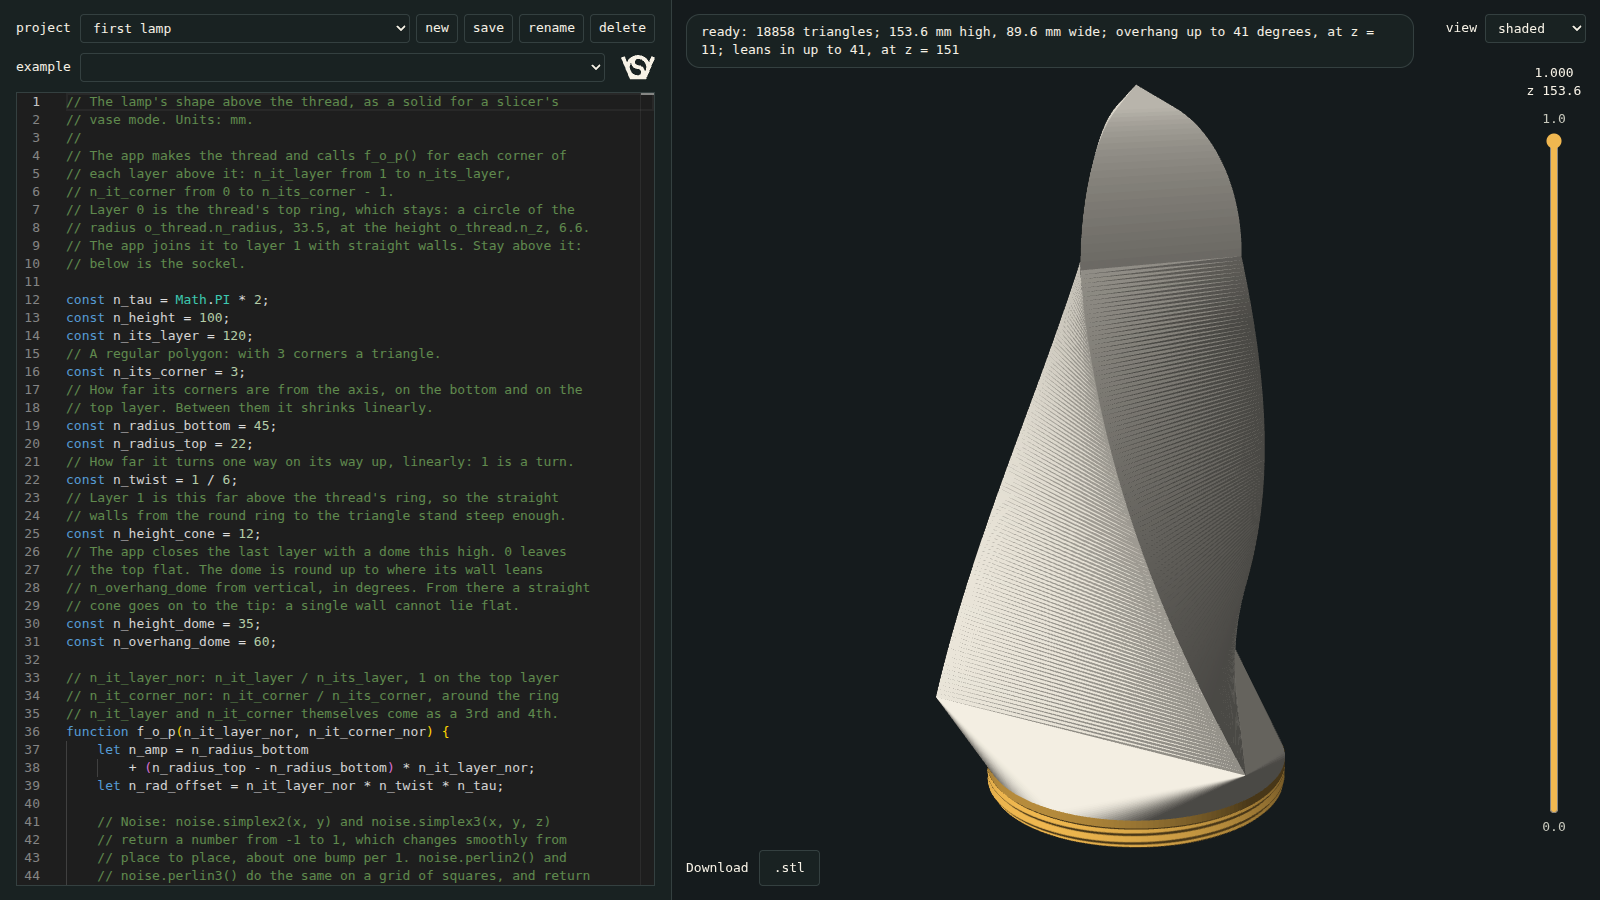
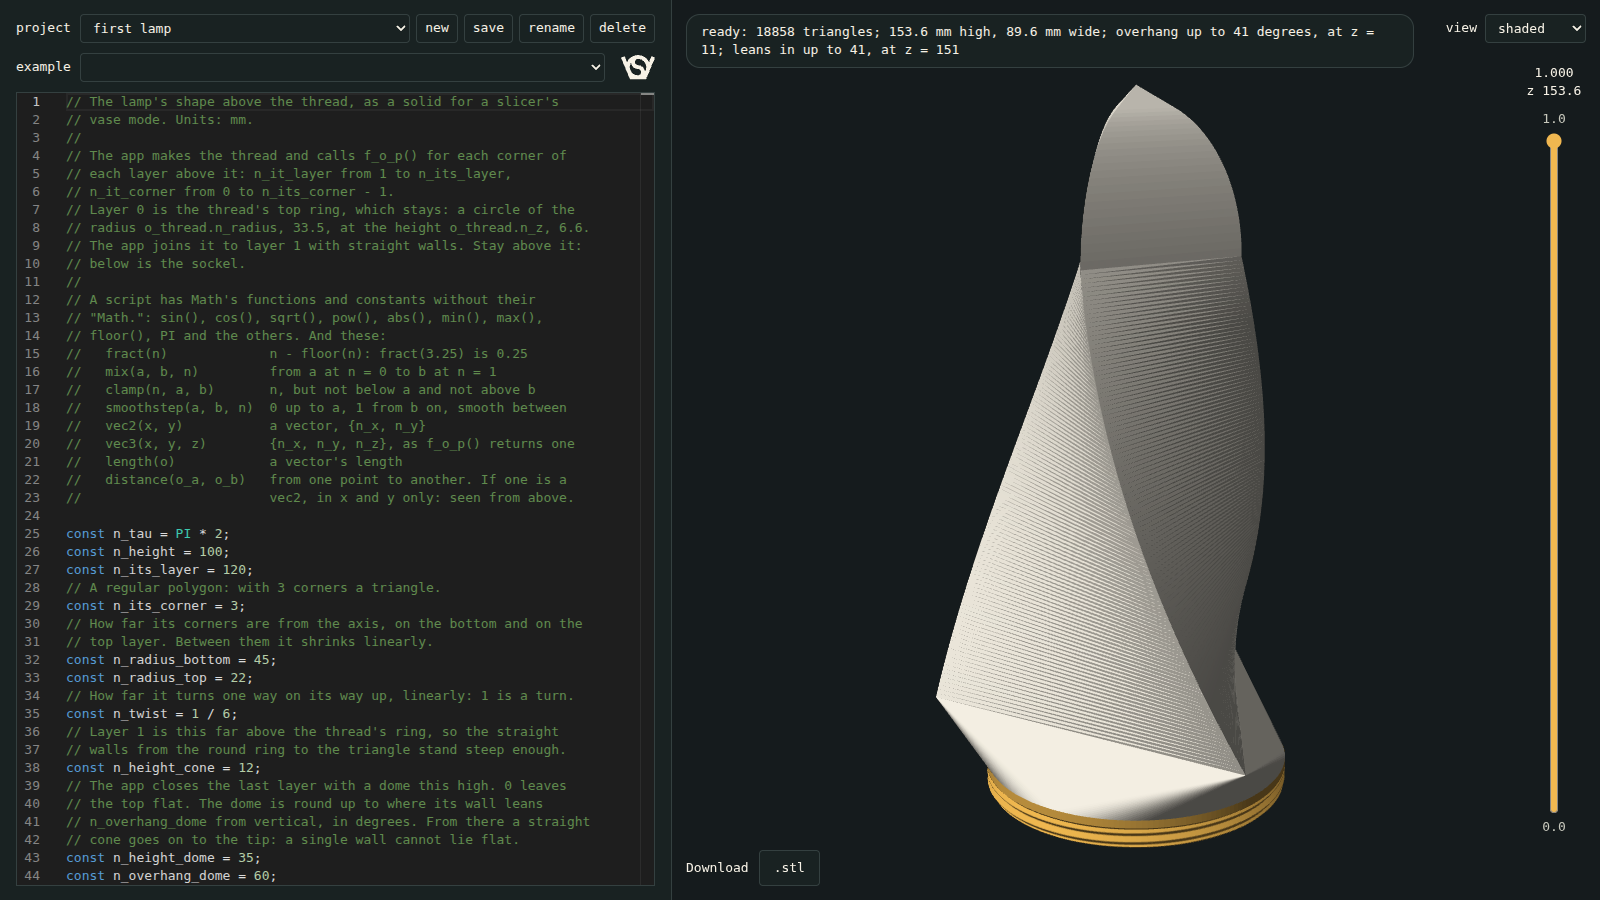
Pucklight vase: a script has Math's functions without Math, and fract, mix, distance
- sin(), cos(), PI and the rest of Math without their "Math.".
- fract, mix, clamp, smoothstep, vec2, vec3, length, distance.
- A script's own sin or fract takes their place, so scripts from before run.
- The editor offers and explains them; template uses them.

Changed region(s): [[0.0312, 0.3111, 0.375, 0.9956]]

diff --git a/projects/pucklight_vase/app.js b/projects/pucklight_vase/app.js
@@ -357,6 +357,33 @@ function code_changed(text) {
 let get_code = () => code;
 let set_code = (text) => {};
 
+// What a script gets and sees, for the editor to offer and to explain: o_thread, noise,
+// and vase_mesh.js's script_functions. And console, to look at a number.
+const script_declarations = `
+declare const console: {log(...data: any[]): void};
+declare const o_thread: {n_radius: number, n_z: number};
+declare const noise: {seed(n_seed: number): void, simplex2(x: number, y: number): number,
+    simplex3(x: number, y: number, z: number): number, perlin2(x: number, y: number): number,
+    perlin3(x: number, y: number, z: number): number};
+${Object.getOwnPropertyNames(Math).map((name) => `declare const ${name}: typeof Math.${name};`).join("\n")}
+/** n - floor(n): fract(3.25) is 0.25 */
+declare function fract(n: number): number;
+/** From a at n = 0 to b at n = 1. */
+declare function mix(a: number, b: number, n: number): number;
+/** n, but not below low and not above high. */
+declare function clamp(n: number, low: number, high: number): number;
+/** 0 up to low, 1 from high on, smooth between. */
+declare function smoothstep(low: number, high: number, n: number): number;
+/** A vector: {n_x, n_y}. */
+declare function vec2(n_x: number, n_y: number): {n_x: number, n_y: number};
+/** A vector: {n_x, n_y, n_z}, as f_o_p() returns one. */
+declare function vec3(n_x: number, n_y: number, n_z: number): {n_x: number, n_y: number, n_z: number};
+/** A vector's length. */
+declare function length(o: {n_x: number, n_y: number, n_z?: number}): number;
+/** From one point to another. If one is a vec2, in x and y only: as seen from above. */
+declare function distance(o_a: {n_x: number, n_y: number, n_z?: number}, o_b: {n_x: number, n_y: number, n_z?: number}): number;
+`;
+
 function start_monaco() {
     // The worker comes from another origin, so it has to start through a data URL.
     const worker = `self.MonacoEnvironment = {baseUrl: "${monaco_url}/"}; importScripts("${monaco_url}/vs/base/worker/workerMain.js");`;
@@ -364,12 +391,12 @@ function start_monaco() {
     require.config({paths: {vs: `${monaco_url}/vs`}});
     require(["vs/editor/editor.main"], () => {
         // A script is a function's body: its return is no mistake, and it gets o_thread
-        // and sees noise.
-        monaco.languages.typescript.javascriptDefaults.setDiagnosticsOptions({diagnosticCodesToIgnore: [1108]});
-        monaco.languages.typescript.javascriptDefaults.addExtraLib("declare const o_thread: {n_radius: number, n_z: number};"
-            + " declare const noise: {seed(n_seed: number): void, simplex2(x: number, y: number): number,"
-            + " simplex3(x: number, y: number, z: number): number, perlin2(x: number, y: number): number,"
-            + " perlin3(x: number, y: number, z: number): number};");
+        // and sees noise and script_functions. Without the browser's own names, of which
+        // length is one: a script's length() is the vector's.
+        const javascript = monaco.languages.typescript.javascriptDefaults;
+        javascript.setDiagnosticsOptions({diagnosticCodesToIgnore: [1108]});
+        javascript.setCompilerOptions({...javascript.getCompilerOptions(), lib: ["esnext"]});
+        javascript.addExtraLib(script_declarations);
         const editor = monaco.editor.create($("editor"), {
             value: code, language: "javascript", theme: "vs-dark", automaticLayout: true,
             minimap: {enabled: false}, scrollBeyondLastLine: false, fontSize: 13, tabSize: 4, lineNumbersMinChars: 3,

diff --git a/projects/pucklight_vase/examples.js b/projects/pucklight_vase/examples.js
@@ -15,8 +15,21 @@ const examples = {
 // radius o_thread.n_radius, 33.5, at the height o_thread.n_z, 6.6.
 // The app joins it to layer 1 with straight walls. Stay above it:
 // below is the sockel.
+//
+// A script has Math's functions and constants without their
+// "Math.": sin(), cos(), sqrt(), pow(), abs(), min(), max(),
+// floor(), PI and the others. And these:
+//   fract(n)             n - floor(n): fract(3.25) is 0.25
+//   mix(a, b, n)         from a at n = 0 to b at n = 1
+//   clamp(n, a, b)       n, but not below a and not above b
+//   smoothstep(a, b, n)  0 up to a, 1 from b on, smooth between
+//   vec2(x, y)           a vector, {n_x, n_y}
+//   vec3(x, y, z)        {n_x, n_y, n_z}, as f_o_p() returns one
+//   length(o)            a vector's length
+//   distance(o_a, o_b)   from one point to another. If one is a
+//                        vec2, in x and y only: seen from above.
 
-const n_tau = Math.PI * 2;
+const n_tau = PI * 2;
 const n_height = 100;
 const n_its_layer = 120;
 // A regular polygon: with 3 corners a triangle.
@@ -41,8 +54,7 @@ const n_overhang_dome = 60;
 // n_it_corner_nor: n_it_corner / n_its_corner, around the ring
 // n_it_layer and n_it_corner themselves come as a 3rd and 4th.
 function f_o_p(n_it_layer_nor, n_it_corner_nor) {
-    let n_amp = n_radius_bottom
-        + (n_radius_top - n_radius_bottom) * n_it_layer_nor;
+    let n_amp = mix(n_radius_bottom, n_radius_top, n_it_layer_nor);
     let n_rad_offset = n_it_layer_nor * n_twist * n_tau;
 
     // Noise: noise.simplex2(x, y) and noise.simplex3(x, y, z)
@@ -64,16 +76,16 @@ function f_o_p(n_it_layer_nor, n_it_corner_nor) {
     // x and y go around a circle, so the noise has no seam where
     // the ring closes.
     // n_amp += noise.simplex3(
-    //     Math.sin(n_it_corner_nor * n_tau) * 2,
-    //     Math.cos(n_it_corner_nor * n_tau) * 2,
+    //     sin(n_it_corner_nor * n_tau) * 2,
+    //     cos(n_it_corner_nor * n_tau) * 2,
     //     n_it_layer_nor * 4) * 3;
     //
     // Another pattern, from 1 to 65535. Above f_o_p():
     // noise.seed(7);
 
     return {
-        n_x: Math.sin(n_it_corner_nor * n_tau + n_rad_offset) * n_amp,
-        n_y: Math.cos(n_it_corner_nor * n_tau + n_rad_offset) * n_amp,
+        n_x: sin(n_it_corner_nor * n_tau + n_rad_offset) * n_amp,
+        n_y: cos(n_it_corner_nor * n_tau + n_rad_offset) * n_amp,
         n_z: o_thread.n_z + n_height_cone + n_it_layer_nor * n_height,
     };
 }

diff --git a/projects/pucklight_vase/test_vase_mesh.js b/projects/pucklight_vase/test_vase_mesh.js
@@ -184,6 +184,27 @@ for (const example of commented.slice(0, 3)) {
 }
 console.log("ok  noise: from -1 to 1, the same for each run of a script, another with a seed; the template's examples work");
 
+/* ---- The functions a script sees ---- */
+
+assert.deepEqual(run_script("return [sin(1), atan2(1, 2), max(1, 2), PI];"), [Math.sin(1), Math.atan2(1, 2), 2, Math.PI]);
+for (const [code, value] of [
+    ["fract(3.25)", 0.25], ["fract(-0.25)", 0.75], ["mix(10, 20, 0.25)", 12.5],
+    ["clamp(5, 0, 1)", 1], ["clamp(-5, 0, 1)", 0], ["clamp(0.5, 0, 1)", 0.5],
+    ["smoothstep(0, 10, -1)", 0], ["smoothstep(0, 10, 2.5)", 0.15625], ["smoothstep(0, 10, 5)", 0.5], ["smoothstep(0, 10, 11)", 1],
+    ["length(vec2(3, 4))", 5], ["length(vec3(2, 3, 6))", 7], ["distance(vec3(1, 2, 3), vec3(3, 5, 9))", 7],
+    // With a vec2 the height does not count, whichever of the two it is.
+    ["distance(vec3(1, 2, 3), vec2(4, 6))", 5], ["distance(vec2(4, 6), vec3(1, 2, 3))", 5], ["distance(vec2(1, 2), vec2(4, 6))", 5],
+]) assert.equal(run_script(`return ${code};`), value, code);
+assert.deepEqual(run_script("return [vec2(1, 2), vec3(1, 2, 3)];"), [{n_x: 1, n_y: 2}, {n_x: 1, n_y: 2, n_z: 3}]);
+// A script's own names take their place: scripts from before there were any have them.
+assert.equal(run_script("const sin = () => 7; const fract = 1; let length = 2;\nfunction distance() { return 3; }\nreturn sin() + fract + length + distance();"), 13);
+// The template uses them: without, with Math's own, it is the same vase.
+const with_math = examples.template.replace("PI * 2", "Math.PI * 2").replace(/ (sin|cos)\(/g, " Math.$1(")
+    .replace("mix(n_radius_bottom, n_radius_top, n_it_layer_nor)", "n_radius_bottom + (n_radius_top - n_radius_bottom) * n_it_layer_nor");
+assert(!/(?<![.\w])(sin|cos|mix|PI)\b/.test(with_math.replace(/^\s*\/\/.*$/gm, "")), "the template still uses one");
+assert.deepEqual(vase_mesh(run_script(with_math)), template);
+console.log(`ok  functions: ${Object.keys(script_functions).length} names, Math's without Math, fract, mix, clamp, smoothstep, vec2, vec3, length, distance; a script's own win`);
+
 /* ---- Any script ---- */
 
 // Few corners or many, running either way, starting anywhere: closed, outside out.

diff --git a/projects/pucklight_vase/vase_mesh.js b/projects/pucklight_vase/vase_mesh.js
@@ -45,13 +45,36 @@ function neck_radius(z, a) {
     return neck_root_r + Math.max(Math.min(ridge, z), z - neck_height);
 }
 
+// What a script sees besides o_thread and noise: Math's functions and constants without
+// their "Math.", and a few of a shader's. A vector is {n_x, n_y} or {n_x, n_y, n_z}, as
+// f_o_p() returns one.
+const script_functions = {
+    ...Object.fromEntries(Object.getOwnPropertyNames(Math).map((name) => [name, Math[name]])),
+    fract: (n) => n - Math.floor(n),
+    mix: (a, b, n) => a + (b - a) * n,
+    clamp: (n, low, high) => Math.min(Math.max(n, low), high),
+    smoothstep: (low, high, n) => {
+        const t = Math.min(Math.max((n - low) / (high - low), 0), 1);
+        return t * t * (3 - 2 * t);
+    },
+    vec2: (n_x, n_y) => ({n_x, n_y}),
+    vec3: (n_x, n_y, n_z) => ({n_x, n_y, n_z}),
+    length: (o) => Math.hypot(o.n_x, o.n_y, o.n_z ?? 0),
+    // n_z counts if both have one: to a vec2 the distance is the one seen from above.
+    distance: (o_a, o_b) => Math.hypot(o_a.n_x - o_b.n_x, o_a.n_y - o_b.n_y,
+        o_a.n_z === undefined || o_b.n_z === undefined ? 0 : o_a.n_z - o_b.n_z),
+};
+
 // Runs a script: the body of a function that returns {n_its_layer, n_its_corner, f_o_p},
 // and n_height_dome and n_overhang_dome if it wants a dome. It gets o_thread, and sees
 // the noise of noise.js, which starts on seed 0 for each script: whatever the script
-// before it seeded, a script makes the same vase.
+// before it seeded, a script makes the same vase. It is a function inside the one that
+// has script_functions, so its own sin or fract takes the place of these. Its first
+// line stays the third, for the app's error_line().
 function run_script(code) {
     noise.seed(0);
-    return new Function("o_thread", code)({...o_thread});
+    return new Function(...Object.keys(script_functions), `return function (o_thread) {${code}\n}`)(
+        ...Object.values(script_functions))({...o_thread});
 }
 
 // The vase of what a script returns. positions has x, y, z per point; indices has three

diff --git a/projects/pucklight_vase/readme.md b/projects/pucklight_vase/readme.md
@@ -17,7 +17,7 @@ The editor comes from the internet; without it a plain text box replaces it.
 |---|---|
 | `index.html` | layout |
 | `app.js` | editor, 3D view, projects, download |
-| `vase_mesh.js` | the thread, the collar and a script's layers as one mesh; `.stl` |
+| `vase_mesh.js` | the thread, the collar and a script's layers as one mesh; the functions a script sees; `.stl` |
 | `noise.js` | `noise` for the scripts: stlsculpter's `perlin2.js`, Stefan Gustavson's simplex and Perlin noise, public domain by its header |
 | `examples.js` | the scripts the editor offers |
 | `server.js` | serves the app and keeps the projects |
@@ -55,7 +55,7 @@ A vase and V3's spheres fit the same sockel.
 
 ## Script
 
-The editor holds the body of a function: it gets `o_thread`, sees `noise`, and returns `{n_its_layer, n_its_corner, f_o_p}`, with `n_height_dome` for a dome on top.
+The editor holds the body of a function: it gets `o_thread`, sees `noise` and the functions below, and returns `{n_its_layer, n_its_corner, f_o_p}`, with `n_height_dome` for a dome on top.
 
 | Name | Is |
 |---|---|
@@ -71,13 +71,27 @@ The editor holds the body of a function: it gets `o_thread`, sees `noise`, and r
 | `noise.perlin2(x, y)`, `noise.perlin3(x, y, z)` | Perlin noise: the same on a grid of squares; 0 where x, y and z are whole numbers |
 | `noise.seed(n)` | another pattern: a whole number from 1 to 65535, or, as in stlsculpter, between 0 and 1 |
 
+| Function | Is |
+|---|---|
+| `sin()`, `cos()`, `sqrt()`, `pow()`, `abs()`, `min()`, `max()`, `floor()`, `PI` and the others | `Math`'s functions and constants, without their `Math.` |
+| `fract(n)` | `n - floor(n)`: `fract(3.25)` is 0.25 |
+| `mix(a, b, n)` | from `a` at `n` = 0 to `b` at `n` = 1 |
+| `clamp(n, low, high)` | `n`, but not below `low` and not above `high` |
+| `smoothstep(low, high, n)` | 0 up to `low`, 1 from `high` on, smooth between |
+| `vec2(x, y)`, `vec3(x, y, z)` | a vector: `{n_x, n_y}`, and `{n_x, n_y, n_z}`, as `f_o_p()` returns one |
+| `length(o)` | a vector's length |
+| `distance(o_a, o_b)` | from one point to another; if one is a `vec2`, in x and y only, as seen from above |
+
+- A script's own `sin` or `fract` takes the place of these: scripts from before keep working. `Math.sin()` works as before.
+- The editor offers them and shows their arguments. It no longer offers the browser's own names, such as `document`; `console.log()` it knows.
+
 | Noise | Minimal example, in `f_o_p()` |
 |---|---|
 | The layers in and out, by up to 3 mm | `n_amp += noise.simplex2(0.5, n_it_layer_nor * 4) * 3;` |
 | Narrower, deeper | multiply what goes in, what comes out |
 | Each corner of a polygon on its own | `n_amp += noise.simplex2(n_it_corner_nor * n_its_corner, n_it_layer_nor * 3) * 4;` |
 | A twist that wobbles | `n_rad_offset += noise.simplex2(0.5, n_it_layer_nor * 2) * n_tau / 30;` |
-| Bumps around the ring without a seam: x and y on a circle | `n_amp += noise.simplex3(Math.sin(n_it_corner_nor * n_tau) * 2, Math.cos(n_it_corner_nor * n_tau) * 2, n_it_layer_nor * 4) * 3;` |
+| Bumps around the ring without a seam: x and y on a circle | `n_amp += noise.simplex3(sin(n_it_corner_nor * n_tau) * 2, cos(n_it_corner_nor * n_tau) * 2, n_it_layer_nor * 4) * 3;` |
 | Another pattern | `noise.seed(7);` above `f_o_p()` |
 
 - The last four are in `template`'s comments, to try without their `//`.
@@ -188,6 +202,9 @@ Vase mode, as V3's `vase_sphere`: see `../pucklight_sphere/readme.md`, Vase mode
 | Projects in headless Chrome: create from an example, save, new, switch with and without unsaved changes, rename, reload on `#<name>`, download, delete down to none | works, console clean; `script.js` holds the editor's text each time |
 | Names the server refuses, from the app: taken, `../x`, `a/b`, `.git`, a space | the status says why, nothing touched |
 | API with `../..`, `a/b`, `.git`, no script, another site's `Origin` and `Host` | refused, nothing touched |
+| `test_vase_mesh.js`: the functions a script sees | `Math`'s without `Math.`; `fract`, `mix`, `clamp`, `smoothstep`, `length` and `distance` give what the table says, `distance` with a `vec2` either way round; a script's own `sin`, `fract`, `length` and `distance` take their place; `template` with `Math`'s own is the same vase |
+| Functions in headless Chrome 154: `template`, every example, and a script from before with its own `fract`, `sin` and `cos` | drawn, nothing marked; typing `smo`, `fra`, `dis`, `len` offers them first; each explained with its arguments |
+| A mistake's line with the functions, also on line 1 and in a script with its own `sin` | found in Chrome 154 and Firefox 157 |
 | Ctrl+S in headless Chrome 154: in the editor after typing, outside it, with caps lock, without a project, opened as a file | saves what the editor holds, also before the view has caught up; without a project asks for a name; as a file nothing; the browser's own save never comes |
 | Opened as a file | project controls off, the rest works |
 | Views in headless Chrome: each view, the section in each, the slider by mouse and by value | drawn as above; the slider's top is 1.0 |
